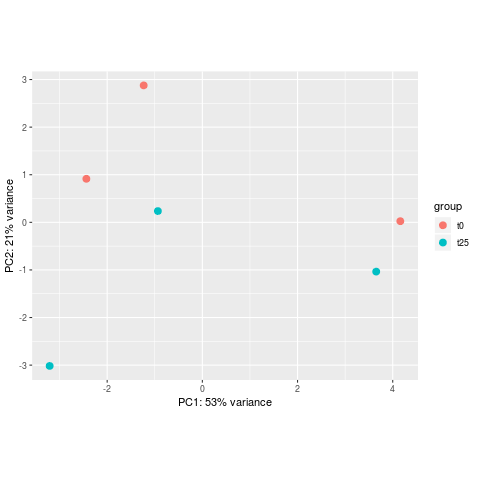
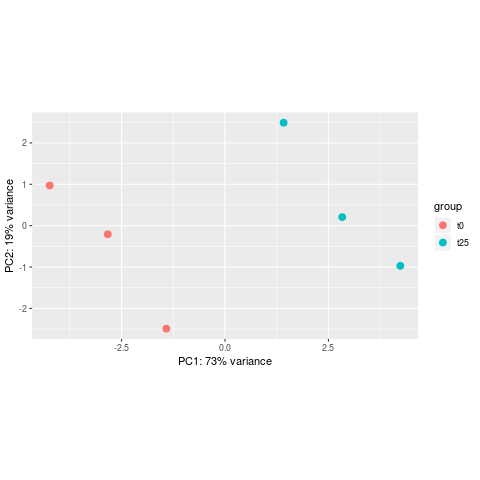
transformation and related plots

diff --git a/docs/differential_expression.md b/docs/differential_expression.md
@@ -383,9 +383,16 @@ write.table(norm_counts_symbols, "normalized_counts.txt", quote=F, col.names=T, 
 
 * Transform raw counts to be able to visualize the data
 
+DESeq2 developper advice to use: **rlog** or **vst** transformations for visualization and other applications that other than differential testing:<br>
+VST runs faster than rlog. If the library size of the samples and therefore their size factors vary widely, the rlog transformation is a better option than VST. 
+<br>
+Both options produce log2 scale data which has been normalized by the DESeq2 method with respect to library size.
+
 ```{r}
-# Use the rlog transformation for visualization. DESeq2 developper advice to use: rlog or vst transformation for visualization and other applications that other than differential testing
-rld <- rlog(se_star2)
+# Try with the vst transformation
+vsd <- vst(se_star2)
+
+# You can also try the same with the rlog transformation as a homework, running: rld <- rlog(se_star2)
 ```
 
 * Samples correlation
@@ -397,7 +404,7 @@ Calculate the sample-to-sample distances:
 library(pheatmap)
 
 # calculate between-sample distance matrix
-sampleDistMatrix <- as.matrix(dist(t(assay(rld))))
+sampleDistMatrix <- as.matrix(dist(t(assay(vsd))))
 
 # create figure in PNG format
 png("sample_distance_heatmap_star.png")
@@ -410,20 +417,15 @@ dev.off()
 
 **Exercise**
 * Do samples cluster how you would expect ?
-* How do samples cluster ?
-* What could be the issue ?
-<br><br>
-Here we see that the samples cluster by replicates (A549_0_1 with A549_25_1, A549_0_2 with A549_25_2, A549_0_3 with A549_25_3) rather than by experimental groups: **batch effect** or **not enough effect of the Dexamethasone treatment** ?
 <br>
-> In order to **control** for the batch effect, we could introduce it in the statistical design: **design = ~ batch + Time**. You can try it as a homework (and check the [DESeq2 vignette](https://bioconductor.org/packages/release/bioc/vignettes/DESeq2/inst/doc/DESeq2.html#quick-start) for more details)!
-
+<br>
 * Principal Component Analysis
 
 Reduction of dimensionality to be able to retrieve main differences between samples.
 
 ```{r}
 png("PCA_star.png")
-plotPCA(object = rld,
+plotPCA(object = vsd,
 		intgroup = "Time")
 dev.off()
 ```
@@ -477,7 +479,7 @@ Wald statistic: the log2FoldChange divided by its standard error.
 
 
 ```{r}
-# check the data for a highly expressed gene
+# check the data for a very differentially expressed gene
 de[rownames(de)=="ENSG00000128016.5",]
 de_shrink[rownames(de_shrink)=="ENSG00000128016.5",]
 
@@ -489,7 +491,7 @@ write.table(de_symbols, "deseq2_results.txt", quote=F, col.names=T, row.names=F,
 ```
 
 **Exercise**
-* What are the log2FoldChange and padj values of genes "ENSG00000128016.5" and "ENSG00000130821.15" ? What can you tell about those ?
+* What are the log2FoldChange and padj values of genes "ENSG00000010017.12" and "ENSG00000163874.10" ? What can you tell about those ?
 * What about the **padj** of those genes ?
 * Check the expression of those genes in each sample (in **normalized_counts.txt**).
 
